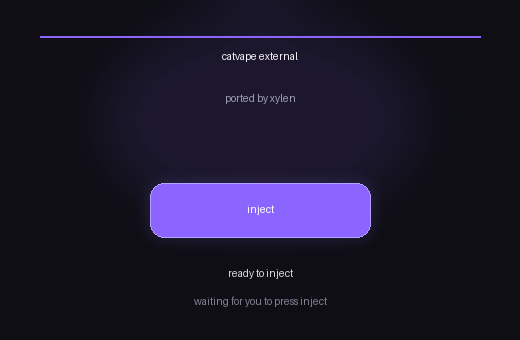
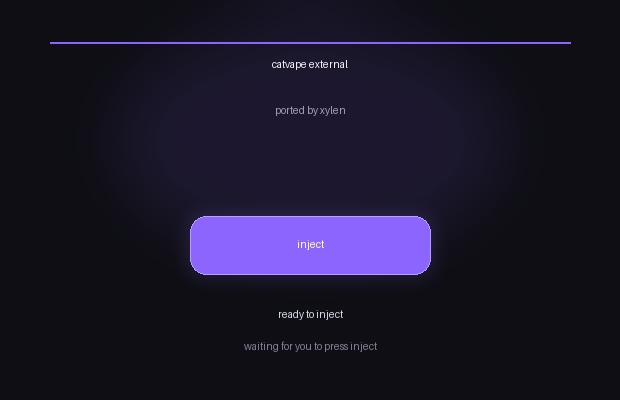
make gui bigger

diff --git a/external/src/injector/main.cpp b/external/src/injector/main.cpp
@@ -30,8 +30,8 @@ static constexpr wchar_t kPipeName[]    = L"\\\\.\\pipe\\CatVapeExternal_v1";
 
 static constexpr UINT WM_APP_STATUS = WM_APP + 1;
 static constexpr UINT_PTR kAnimTimerId = 1;
-static constexpr int kWidth = 520;
-static constexpr int kHeight = 340;
+static constexpr int kWidth = 620;
+static constexpr int kHeight = 400;
 
 struct UiState {
     HWND hwnd = nullptr;
@@ -92,10 +92,10 @@ static void LoadFonts() {
     g_ui.fontResSemiBold = AddFontMemResourceEx((PVOID)kPoppinsSemiBold, (DWORD)kPoppinsSemiBoldSize, nullptr, &n2);
     g_ui.fontResBold = AddFontMemResourceEx((PVOID)kPoppinsBold, (DWORD)kPoppinsBoldSize, nullptr, &n3);
 
-    g_ui.fontTitle = MakeFont(30, FW_SEMIBOLD, L"Poppins");
-    g_ui.fontBody = MakeFont(18, FW_NORMAL, L"Poppins");
-    g_ui.fontSmall = MakeFont(14, FW_NORMAL, L"Poppins");
-    g_ui.fontButton = MakeFont(20, FW_SEMIBOLD, L"Poppins");
+    g_ui.fontTitle = MakeFont(34, FW_SEMIBOLD, L"Poppins");
+    g_ui.fontBody = MakeFont(20, FW_NORMAL, L"Poppins");
+    g_ui.fontSmall = MakeFont(15, FW_NORMAL, L"Poppins");
+    g_ui.fontButton = MakeFont(22, FW_SEMIBOLD, L"Poppins");
 }
 
 static void UnloadFonts() {
@@ -109,10 +109,10 @@ static void UnloadFonts() {
 }
 
 static RECT ButtonRect(const RECT& client) {
-    int bw = 220;
-    int bh = 54;
+    int bw = 240;
+    int bh = 58;
     int cx = (client.left + client.right) / 2;
-    int cy = (client.top + client.bottom) / 2 + 40;
+    int cy = (client.top + client.bottom) / 2 + 45;
     return RECT{ cx - bw / 2, cy - bh / 2, cx + bw / 2, cy + bh / 2 };
 }
 
